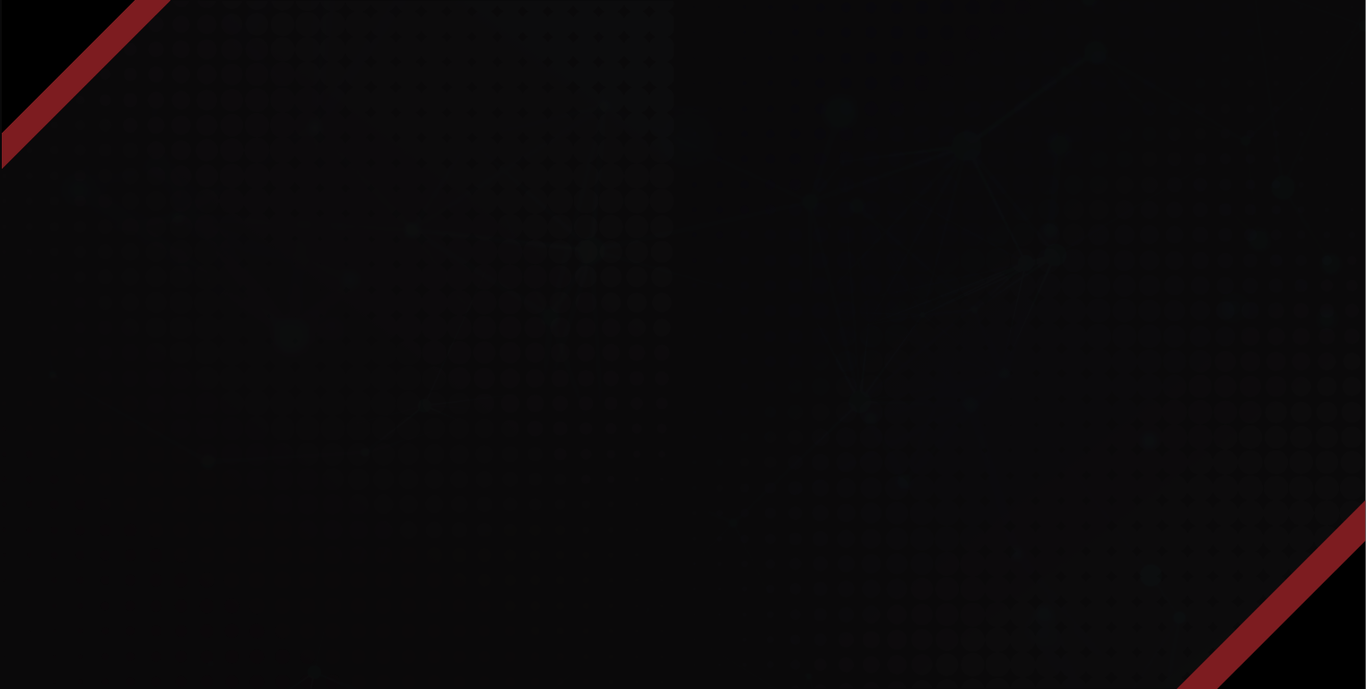
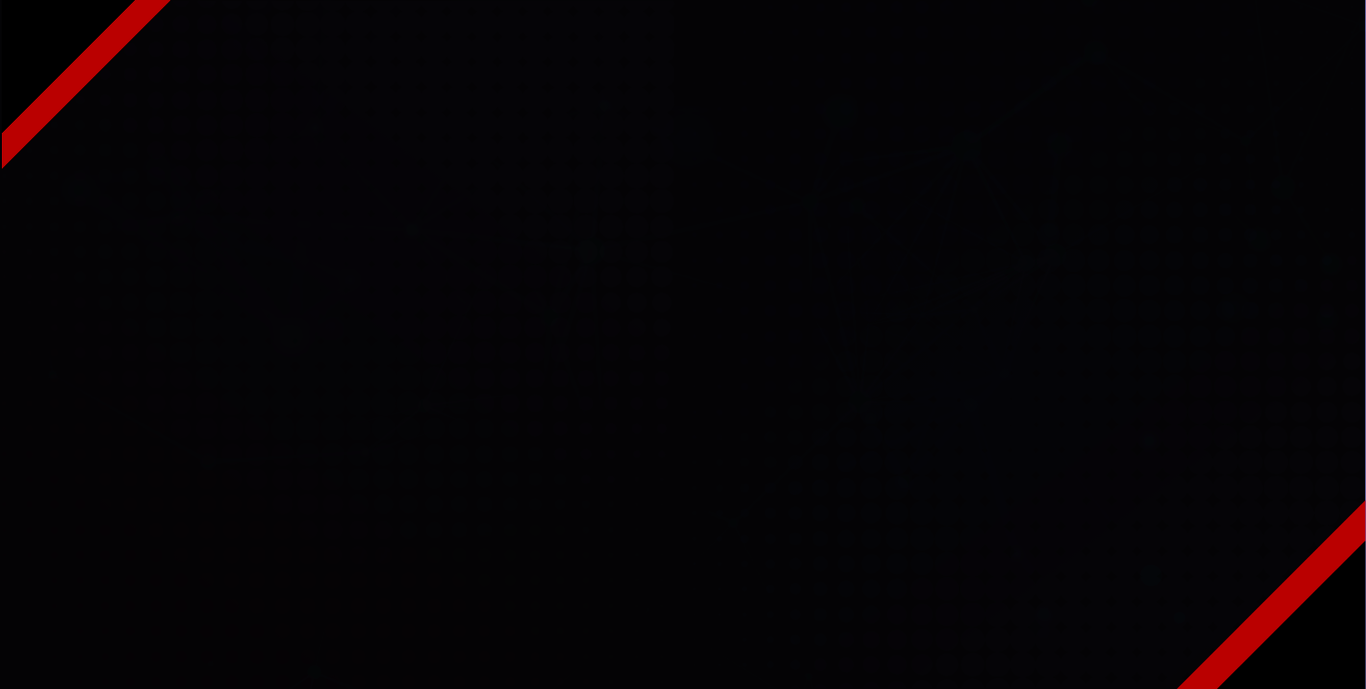
dark mode

Changed region(s): [[0.8609, 0.7315, 1.0, 1.0], [0.0, 0.0, 0.123, 0.2438]]

diff --git a/assets/css/style.css b/assets/css/style.css
@@ -1371,7 +1371,7 @@ background-size: cover;
     }
 
     .dark-mode .navbar-collapse {
-        background-color: black;
+        background-color: #19191c;
     }
 
     .dark-mode .nav-link {
@@ -1446,7 +1446,7 @@ background-image: url('../images/new-dark.png');
 
 .dark-mode .contact-form textarea,
 .dark-mode .contact-form input {
-    background-color: #000000;
+    background-color:#19191c;
     color: #e0e0e0;
 }
 
@@ -1536,11 +1536,6 @@ background:transparent;
     background-image: url("../images/about_dark_bg.png");
 }
 
-.dark-mode .my-certificates {
-    padding: 10px 0;
-    background: linear-gradient(to right, #0b0b16, #141414);
-    color: var(--secondary-color);
-}
 
 .dark-mode .certificate-card .card-text {
     color: #c5c5c6;
@@ -1604,7 +1599,7 @@ background:transparent;
 }
 
 .dark-mode .form-check-input , .dark-mode .form-control {
-background-color: #1111;
+background-color: #19191c;
 border-color:rgb(186, 184, 184);
 border-width: 2px;
 }
@@ -1614,15 +1609,15 @@ border-width: 2px;
 }
 
 .dark-mode .technologies {
-    background-color: #000000 !important;
+    background-color: #19191c !important;
 }
 
 .dark-mode .bg-white {
-    background-color: #000000 !important;
+    background-color: #19191c !important;
 }
 
 .dark-mode .bg-light {
-    background-color: #000000 !important;
+    background-color: #19191c !important;
 }
 
 .dark-mode .service-card {
@@ -1642,7 +1637,7 @@ border-width: 2px;
   }
 
 .dark-mode .rounded-circle {
-    border-color: #000000 !important;
+    border-color: #19191c !important;
 }
 
 .dark-mode .experience-card {
@@ -1659,7 +1654,7 @@ border-width: 2px;
 }
 
 .dark-mode .project-card {
-    background:#000000;
+    background:#19191c;
 }
 
 .dark-mode .nav-pills .nav-link {
@@ -1671,7 +1666,7 @@ border-width: 2px;
 
   
   .dark-mode .my-approach-card {
-    background-color: #111111;
+    background-color: #19191c;
     border-radius: 16px;
     box-shadow: 0 15px 30px rgba(0, 0, 0, 0.1);
     overflow: hidden;
